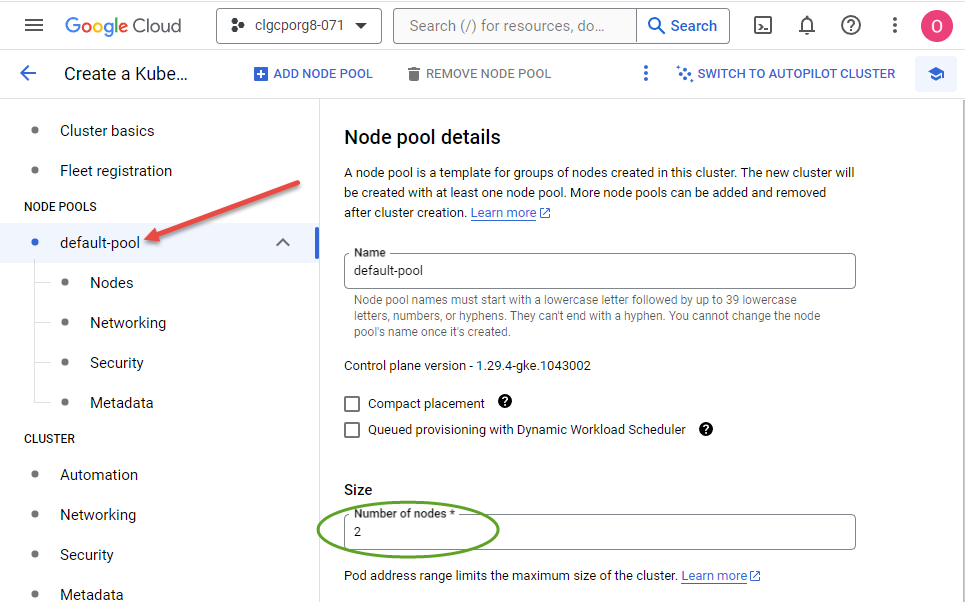
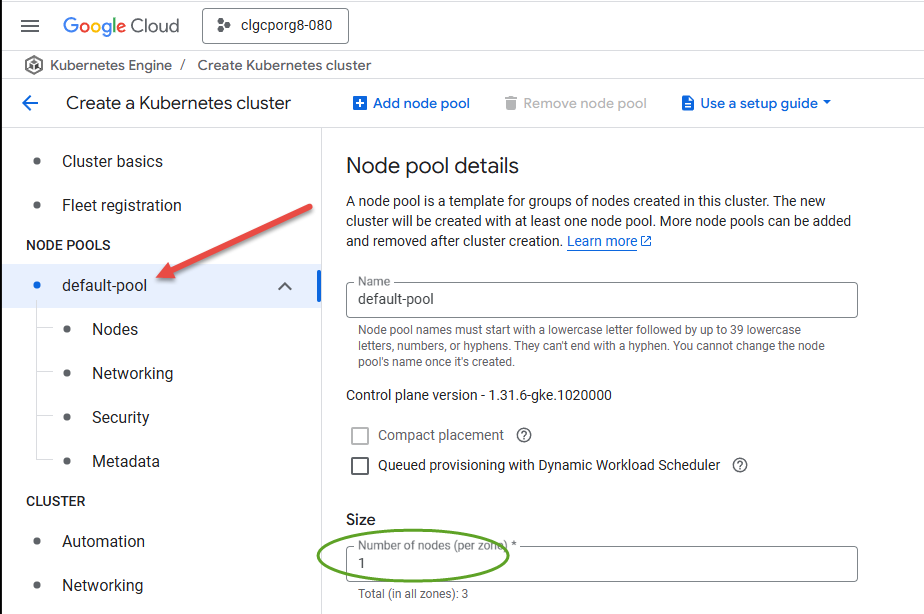
Console updates

diff --git a/managed-clusters/gke/console/docs/03-node-setup.md b/managed-clusters/gke/console/docs/03-node-setup.md
@@ -1,9 +1,9 @@
 # Node Setup
 
-1. Click on `NODE POOLS/Default Pool` to the left. Set `Number of nodes` to `2`. Leave all other fields as defaults.<br/><br/> ![default-pool](../images/03-default-pool.png)
+1. Click on `NODE POOLS/Default Pool` to the left. Set `Number of nodes (per zone)` to `1`. Leave all other fields as defaults.<br/><br/> ![default-pool](../images/03-default-pool.png)
 1. Click on Nodes. Ensure `Machine Configuration` is set to `E2`. Set `Boot disk type` to `Standard persistent disk` and `Boot disk size` to `20`<br/><br/>![node](../images/03-node.png)
 
-The more advanced features of GKE aren't enabled in KodeKloud playgrounds, so there is no more configuration needed. Thus you are now ready to go! Press the `CREATE` button at the bottom of this screen. It will take at least 5 minutes to deploy your new cluster. It will take you to this screen. You may have to sacroll it down to see the cluster at the bottom.
+The more advanced features of GKE aren't enabled in KodeKloud playgrounds, so there is no more configuration needed. Thus you are now ready to go! Press the `CREATE` button at the bottom of this screen. It will take at least 5 minutes to deploy your new cluster. It will take you to this screen. You may have to scroll it down to see the cluster at the bottom. You can click on the cluster name to see a progress screen.
 
 ![creating](../images/03-creating.png)
 

diff --git a/managed-clusters/gke/console/docs/02-create-cluster.md b/managed-clusters/gke/console/docs/02-create-cluster.md
@@ -9,7 +9,7 @@ If using a small monitor, some top menu items may be hidden behind a vertical el
 1. In the menu on the left, select `Kubernetes Engine`. You don't need to select any item from the submenu that pops up.<br/><br/>![engine](../images/02-engine.png)
 1. On the following screen, press the `CREATE CLUSTER` button. You will arrive at the Cluster Basics screen.<br/><br/>![create](../images/02-create.png)
 1. Near the top right of this screen, click on `SWITCH TO STANDARD CLUSTER`, and confirm this is what you want to do in the dialog that pops up<br/><br/>![standard](../images/02-standard.png)
-1. Edit the cluster name as shown below. Other names *should* be ok, but if you have issues, use this one. Leave all other fields as defaults<br/><br/> ![basics](../images/02-cluster-basics.png)
+1. Edit the cluster name as shown below. Other names *should* be ok, but if you have issues, use this one. Ensure that you select `Regional`, and set the region to `us-west1`. Leave all other fields as defaults<br/><br/> ![basics](../images/02-cluster-basics.png)
 
 We've started configuring the cluster, but still have additional things we need to set, so don't click the CREATE button at the bottom of this screen just yet.  Before that, we'll configure the node pool on the next page...
 

diff --git a/managed-clusters/gke/console/docs/04-connect.md b/managed-clusters/gke/console/docs/04-connect.md
@@ -1,6 +1,6 @@
 # Connect to Cluster
 
-1. When the cluster has deployed, then there will be a green tick in the status column. You can now click on the cluster name<br/><br/>![select](../images/04-select.png)
+1. When the cluster has deployed, then there will be a green tick in the status column. You can now click on the cluster name, unless you did already.<br/><br/>![select](../images/04-select.png)
 1. At the top of the following screen, click on `CONNECT`<br/><br/>![connect](../images/04-connect.png)
 1. Click on `RUN IN CLOUDSHELL`. The CloudShell pane will open at the bottom of the screen. Press the `CONTINUE` button.<br/><br/>![cloudshell](../images/04-run-in-cloudshell.png)
 1. The terminal will open and some commands will appear in it, Hit `ENTER` to execute them. Press `AUTHORIZE` on the dialog that pops up.<br/><br/>![terminal](../images/04-terminal.png)

diff --git a/managed-clusters/gke/console/docs/01-sign-in.md b/managed-clusters/gke/console/docs/01-sign-in.md
@@ -1,6 +1,8 @@
 # Provision lab
 
-Last updated: June 2024
+Last updated: March 2025
+
+In this guide, we will deploy a GKE cluster which is compliant with the KodeKloud playground security and usage policies. Note that you must follow this guide *precisely* or you may get permission errors.
 
 Since this is a Google product, it will work best in Chrome browser. Other mainstream browsers *should* be fine.
 
